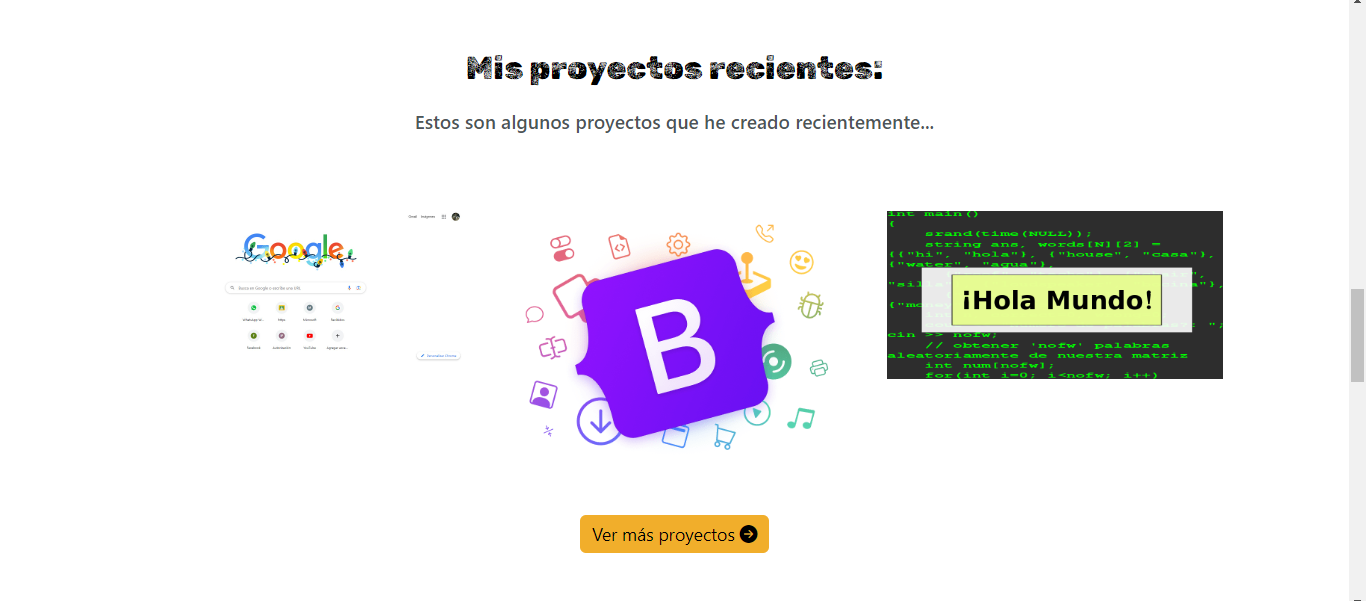
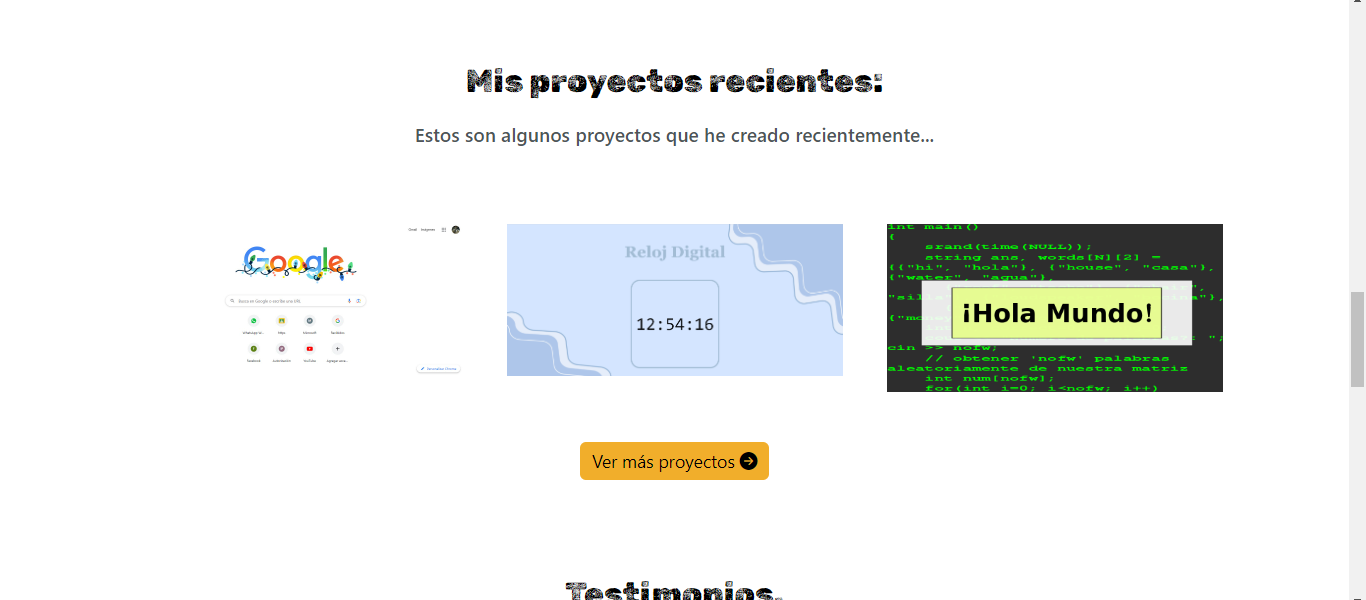
Add files via upload

diff --git a/index.html b/index.html
@@ -143,14 +143,14 @@
           <!-- Proyecto 2 -->
           <div class="col-12 col-md-6 col-lg-4">
             <div class="proyecto">
-              <img src="imagenes/bootstrap.png" alt="Bootstrap">
+              <img src="imagenes/relojdigital.png" alt="Reloj Digital">
               <div class="overlay">
-                <p>Bootstrap</p>
+                <p>Reloj Digital</p>
                 <div class="iconos-contenedor">
-                  <a href="https://github.com/valeriavazquez19/Bootstrap" target="_blank" rel="noopener noreferrer">
+                  <a href="https://github.com/valeriavazquez19/Reloj-Digital" target="_blank" rel="noopener noreferrer">
                     <i class="bi bi-github"></i>
                   </a>
-                  <a href="https://bootstrap-eight-khaki.vercel.app/" target="_blank" rel="noopener noreferrer">
+                  <a href="https://reloj-digital-delta.vercel.app/" target="_blank" rel="noopener noreferrer">
                     <i class="bi bi-laptop"></i>
                   </a>
                 </div>
